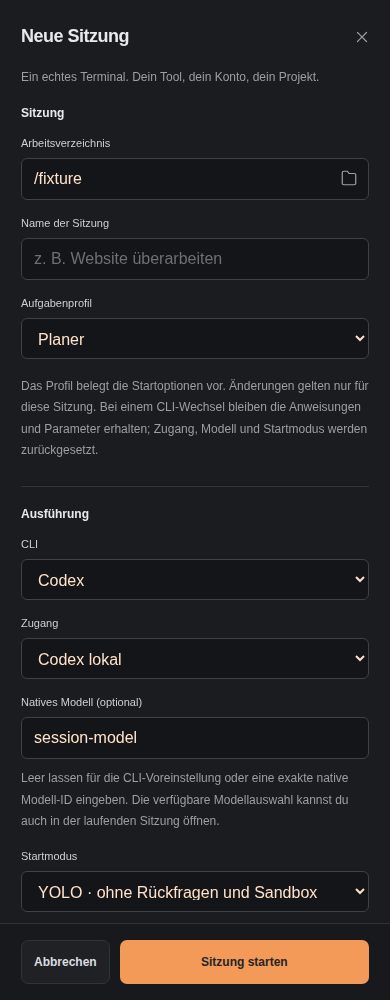
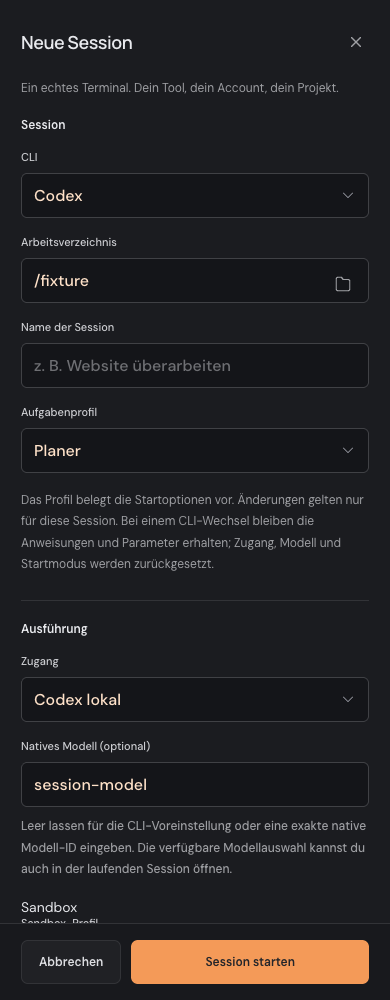
docs: describe the grant picker in the SSH, agent and secrets guides
The guides now name the search field and the allowed list of the session dialogs and the add field of the new-session dialog instead of ticking rows. The new-session screenshots show the SSH section with the add field.

diff --git a/docs/ssh-access.md b/docs/ssh-access.md
@@ -16,7 +16,7 @@ The [categories with the model access list](screenshots/connections-desktop.png)
 
 A host is either an SSH host (commands) or an SFTP host (file transfer, see [SFTP access](sftp-access.md)). The host form has a **Type** choice for it; an SFTP host signs in with a **Password** or a **Key** (**Sign-in**) and can confine every remote path to an optional **Allowed remote folder**. The list's **Sign-in** column shows "Password" or the key's name, and SFTP hosts carry an **SFTP** badge.
 
-Select the project when creating keys or hosts. The current project filter preselects ownership for new entries. A project host must use a key owned by the same project. Existing global entries remain global. Explicit session assignments add access to selected global or other-project hosts without transferring key ownership. The session picker marks inherited hosts as **Project**; manage those hosts in settings. Removing an explicit assignment does not remove independently inherited project access.
+Select the project when creating keys or hosts. The current project filter preselects ownership for new entries. A project host must use a key owned by the same project. Existing global entries remain global. Explicit session assignments add access to selected global or other-project hosts without transferring key ownership. A session's **SSH accesses** dialog lists inherited hosts as allowed and marks them **Project managed**; they cannot be removed there, so manage them in settings. A project host that is also assigned explicitly offers **Remove explicit assignment**. Removing an explicit assignment does not remove independently inherited project access.
 
 ### Git initialization in a session folder
 
@@ -233,7 +233,7 @@ The **Plain ssh** block shows one state: plain ssh works (with the aliases, or "
 
 ## Session lifecycle and manual access
 
-Select explicit accesses in the new-session dialog, or open **SSH accesses** in an existing running session. The dialog reports whether the tools are ready, still starting, or require **Reload & resume**; while they start, the server checks every 1.5 s and pushes the change over the [live channel](architecture.md#live-channel), and choices not yet saved stay. Existing CLI processes need [Reload & resume](session-reload.md) to acquire new tool schemas and startup hints while retaining their native conversation. Once updated, later project and explicit assignment changes take effect on the next call without another reload.
+In the new-session dialog, the **SSH accesses** section lists the accesses you allowed, each with a remove button, and ends in the **Add SSH access** field: type to search, check the matches and add them. In an existing running session, open **SSH accesses**: the search field on the left filters every access and its checkbox allows it, and the list on the right shows what is allowed in this session, with a remove button for each explicit assignment. On a phone the dialog shows the allowed list with the add field at its end. Nothing is saved until **Save**. The dialog reports whether the tools are ready, still starting, or require **Reload & resume**; while they start, the server checks every 1.5 s and pushes the change over the [live channel](architecture.md#live-channel), and choices not yet saved stay. Existing CLI processes need [Reload & resume](session-reload.md) to acquire new tool schemas and startup hints while retaining their native conversation. Once updated, later project and explicit assignment changes take effect on the next call without another reload.
 
 The explicit connection command (the manual SSH helper) remains available, including for shell sessions. Append ` -- <remote command>` to run a command, or invoke the helper alone for an interactive SSH shell. For a host in [interactive shell](#interactive-shell-network-devices) mode the helper types the remote command into the device console and prints the console text; this is how coding sessions reach such devices, and `ssh_list_hosts` names the exact command for each of them (`use.command`). A sandboxed session can run it: its sandbox already grants the AgentPier program folder, the Node runtime and the SSH store the helper reads. Native shell/network approvals may still apply.
 

diff --git a/docs/session-agent-talk.md b/docs/session-agent-talk.md
@@ -13,11 +13,14 @@ never reaches an agent of a restricted user.
   the **Coding sessions** switch; removing the project removes it. In **Projects ›
   <project> › Agents**, ticking **Sessions may talk** also ticks **May start coding
   sessions in this project** (the project grant) if it was not on yet.
-- **Session grant.** In a running session, open **Agent access** and tick the agents
-  that session may talk to. The new-session dialog has the same choice under
-  **Agents**. It is offered for coding CLIs only, not for launches from a task profile.
-  A session grant ends when the session stops or is removed and survives **Reload &
-  resume**. Agents ticked through their project show as "via project".
+- **Session grant.** In a running session, open **Agent access**: search the agents on
+  the left and check the ones that session may talk to; the list on the right shows
+  the allowed agents, each with a remove button (on a phone, the allowed list ends in
+  an **Add agent** field). The new-session dialog has the same choice under
+  **Agents**: the allowed agents and an **Add agent** field below them. It is offered
+  for coding CLIs only, not for launches from a task profile. A session grant ends
+  when the session stops or is removed and survives **Reload & resume**. Agents
+  allowed through their project show as "via project" and cannot be removed there.
 - **Standing guidance.** Only an agent with at least one project grant for talking gets
   a short section about session turns in its instructions. An agent reached only through
   session grants gets none: each session turn carries its own framing (see below).

diff --git a/docs/secrets.md b/docs/secrets.md
@@ -44,7 +44,7 @@ Every Codex, Claude Code, OpenCode and shell session gets a file at `<data>/secr
 The file contains:
 
 - the secrets of the session's project, and
-- the secrets you ticked in the new-session dialog. It lists all secrets as optional, with their owner shown; the note there says that the session's own project secrets are always included.
+- the secrets you added in the new-session dialog. Its **Secrets** section lists the secrets you added, each with a remove button, and ends in the **Add secret** field, which offers all secrets as optional, with their owner shown; the note there says that the session's own project secrets are always included.
 
 Choose secrets only when you launch a session. A login session refuses the choice, and launches from a task profile have no picker. After launch, the file follows changes to project secrets and values at once and is removed when the session stops or is removed. A project rebind after `git init` moves the project secrets along ([SSH accesses](ssh-access.md#git-initialization-in-a-session-folder)).
 
